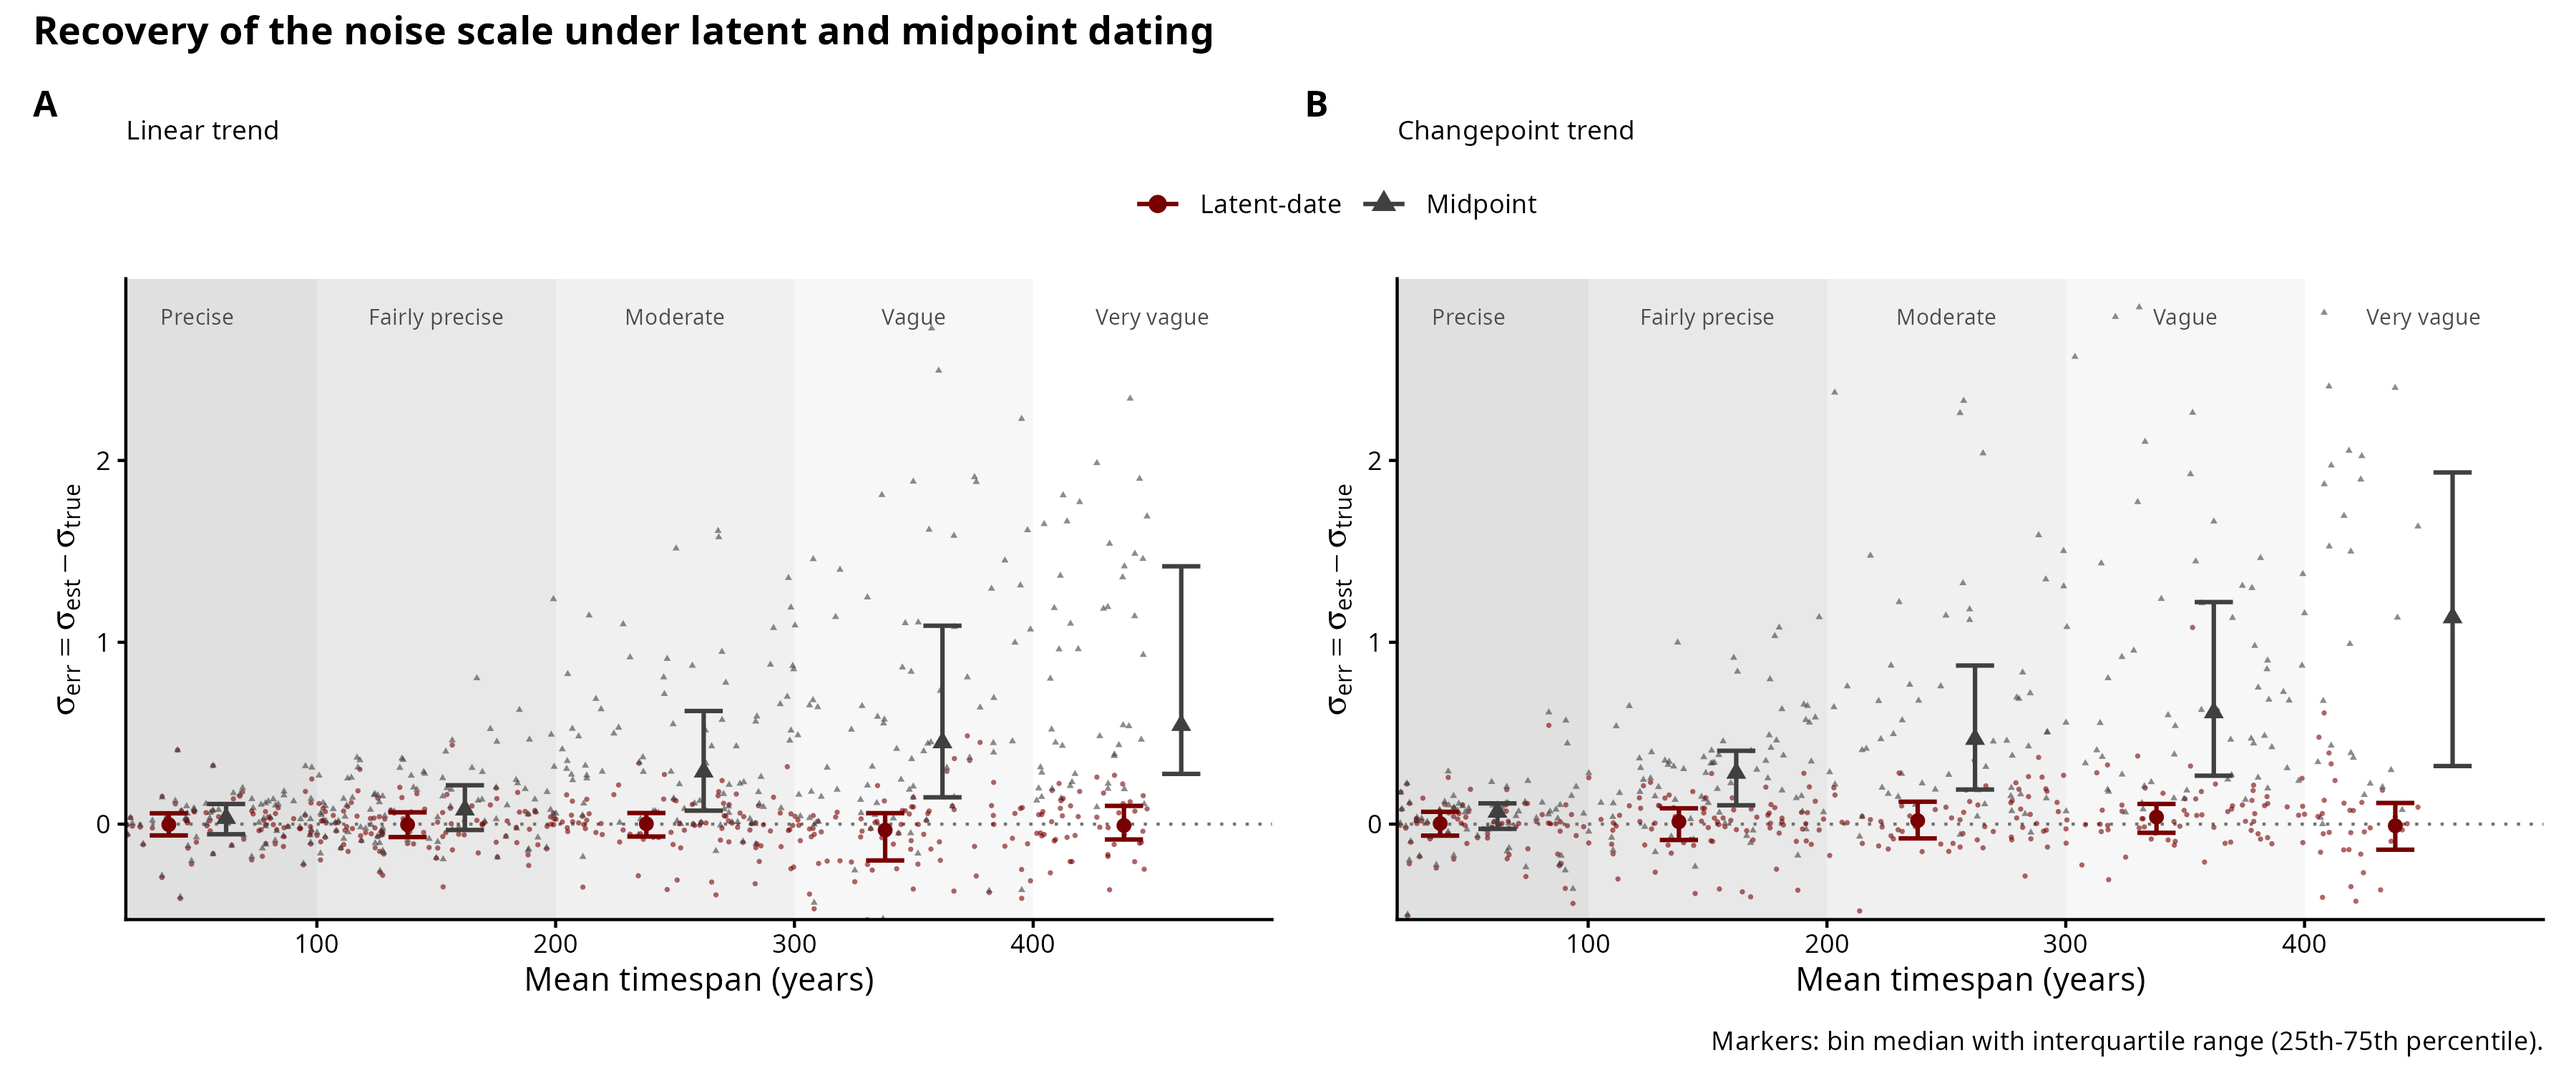
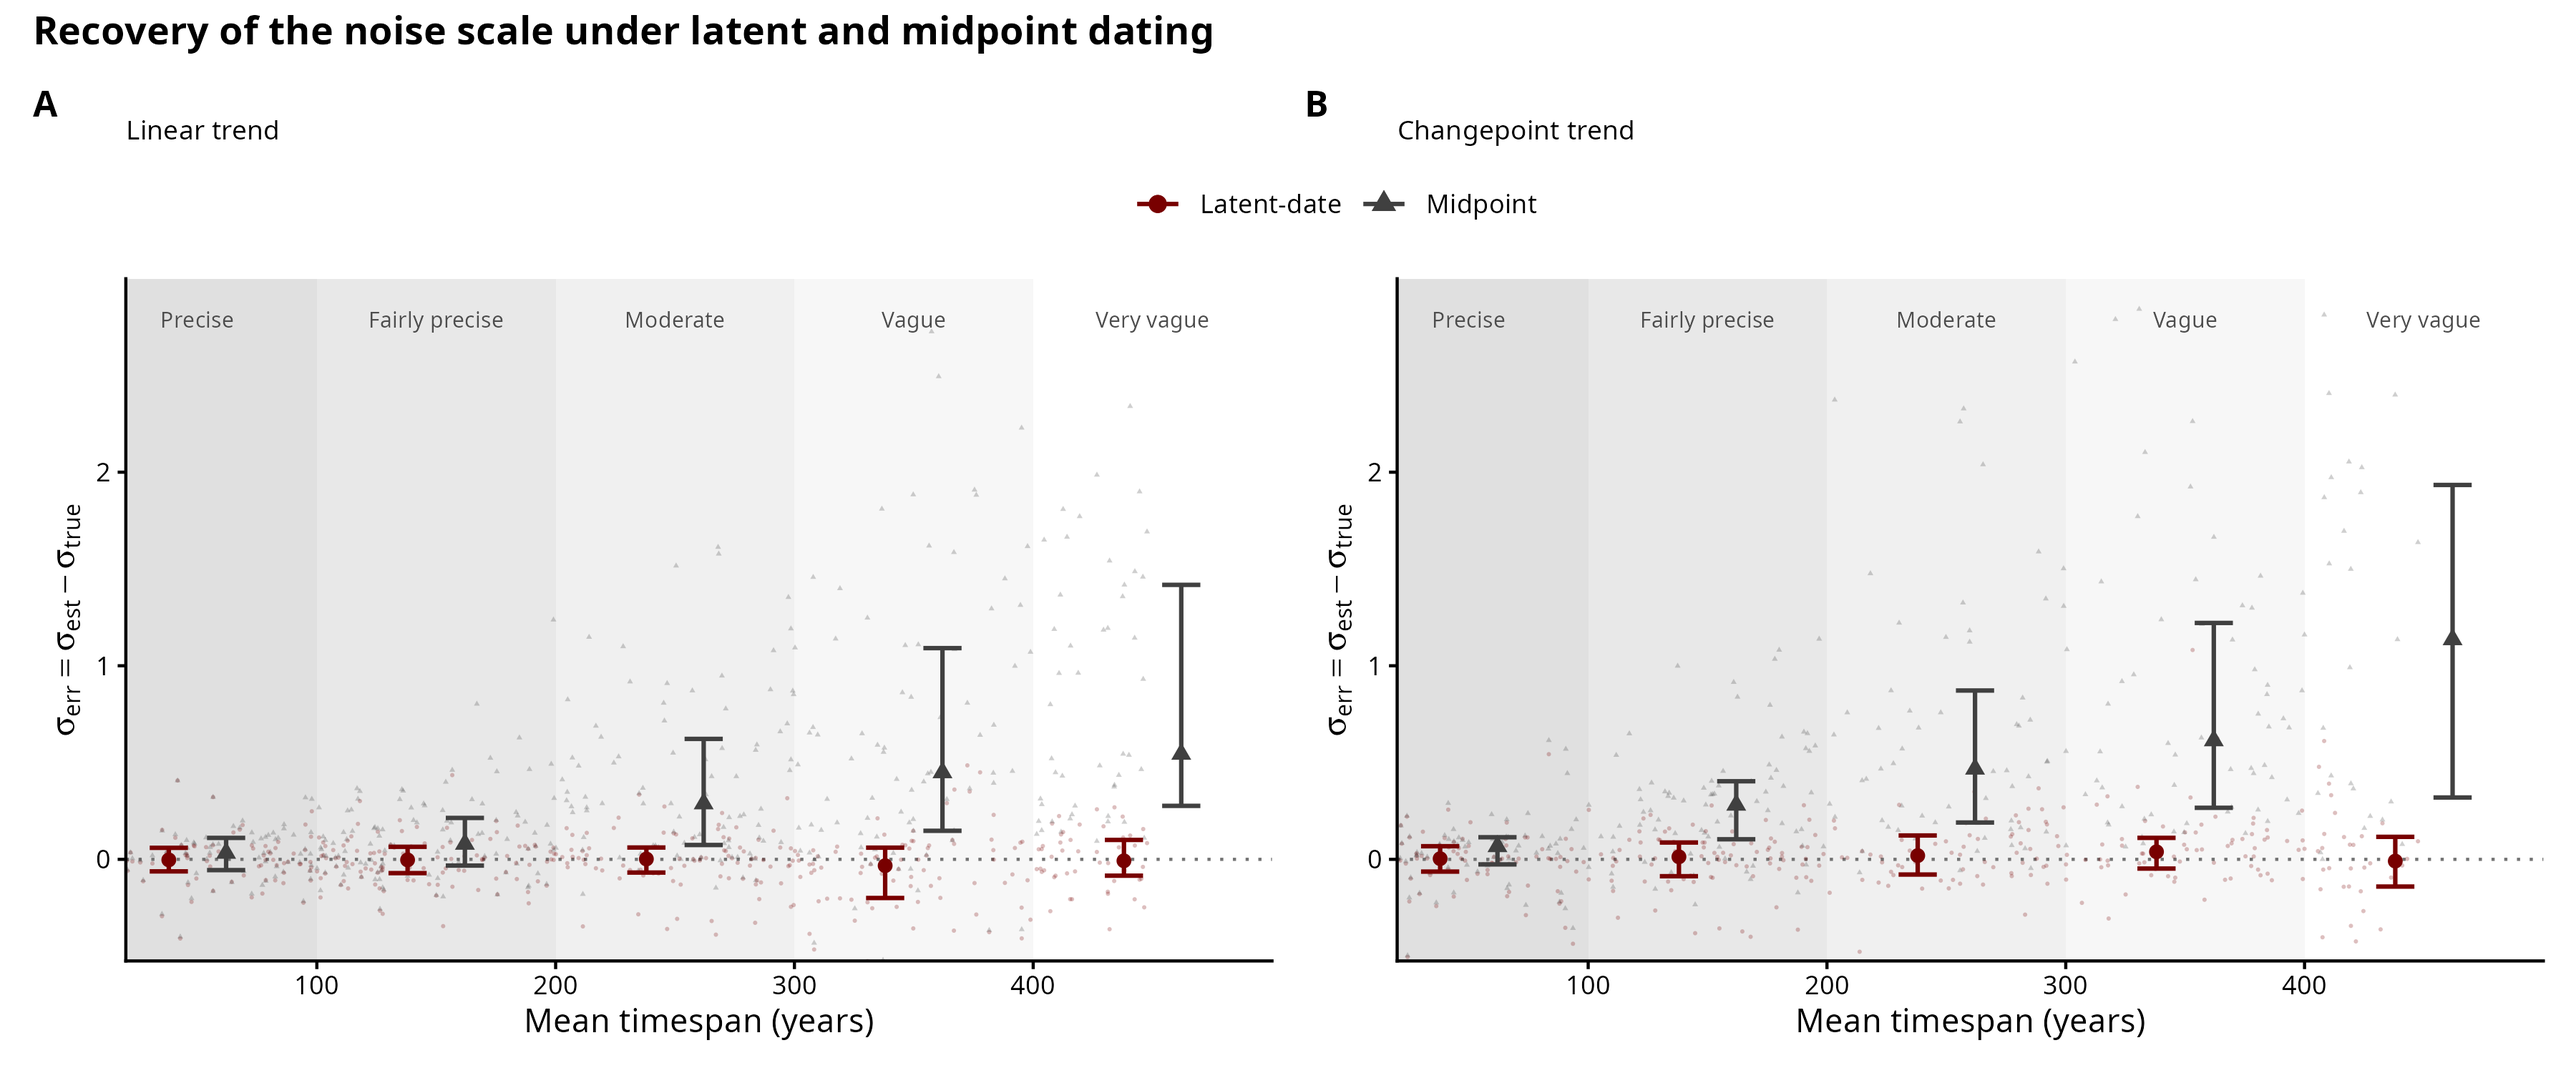
Changes to sigma err plot and debug

diff --git a/Simulations/Sim_Changepoint/README.md b/Simulations/Sim_Changepoint/README.md
@@ -27,6 +27,7 @@ so the two provably use the same process. The pipeline is then three scripts:
 | `01_example.R` | draw ONE dataset, show it, fit both models, compare | `figures/exploratory_panel.png`, `model_comparison_single_fit.png`, `individual_date_posteriors.png` |
 | `02_recovery_study.R` | draw MANY random plausible datasets (each with its own baseline, two slopes, changepoint, noise, sample size, mixed windows), fit both models, record whether each interval contains the truth | `output/recovery_results.csv` |
 | `03_recovery_plots.R` | the study figures | `figures/recovery.png`, `coverage.png`, `sigma_vs_window.png` |
+| `04_convergence_diagnostic.R` | inspect which datasets fail to converge, contrasting dating-window width with changepoint detectability | `figures/convergence_diagnostic.png` |
 
 The worked example (`01`) fits in seconds, so it is self-contained. The study
 (`02`) takes about 11 minutes (800 fits), so its plotting (`03`) is kept separate
@@ -89,6 +90,15 @@ value. The changepoint posterior is harder to sample than the linear one, so abo
 a fifth of fits are dropped for non-convergence (max Rhat > 1.05 or divergences);
 the coverage rates are essentially unchanged whether or not this filter is applied.
 
+Two extra checks are tracked for the difficult changepoint case. First,
+`sigma_vs_window.png` shows that the midpoint model increasingly overestimates the
+generative noise scale as dating windows widen, while the latent-date model stays
+close to unbiased. Second, `convergence_diagnostic.png` asks whether dropped fits
+look like weak-signal cases or simply hard posterior geometries: in these
+simulations, non-convergence is more strongly associated with wide dating windows
+than with low changepoint detectability, so the discarded fits are not just the
+datasets with the faintest kink.
+
 **Findings.** Both models recover the baseline, the first slope, and the
 changepoint location at close to the nominal rates. They diverge in two places.
 First, as in the linear case, the noise level sigma: the midpoint absorbs dating
@@ -105,4 +115,5 @@ down, and ignoring date uncertainty makes it harder still.
 <img src="figures/recovery.png" height="320" text-align="center"/>
 <img src="figures/coverage.png" height="360" text-align="center"/>
 <img src="figures/sigma_vs_window.png" height="400" text-align="center"/>
+<img src="figures/convergence_diagnostic.png" height="400" text-align="center"/>
 </p>
